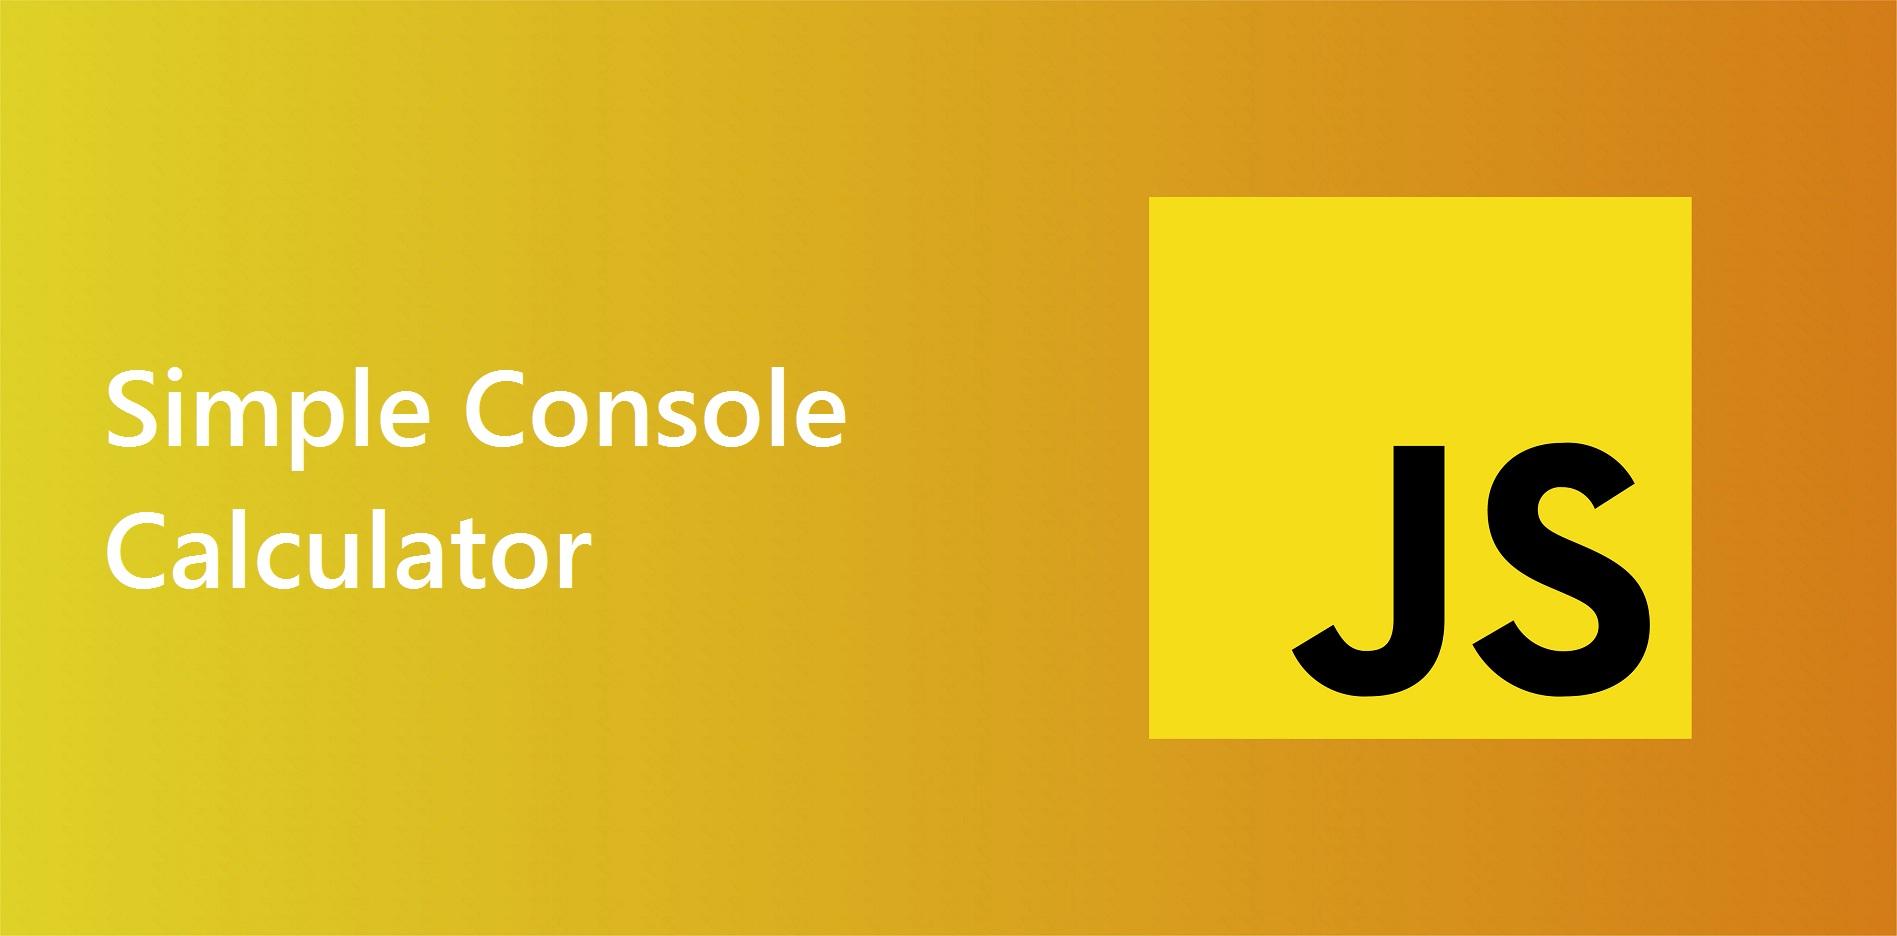
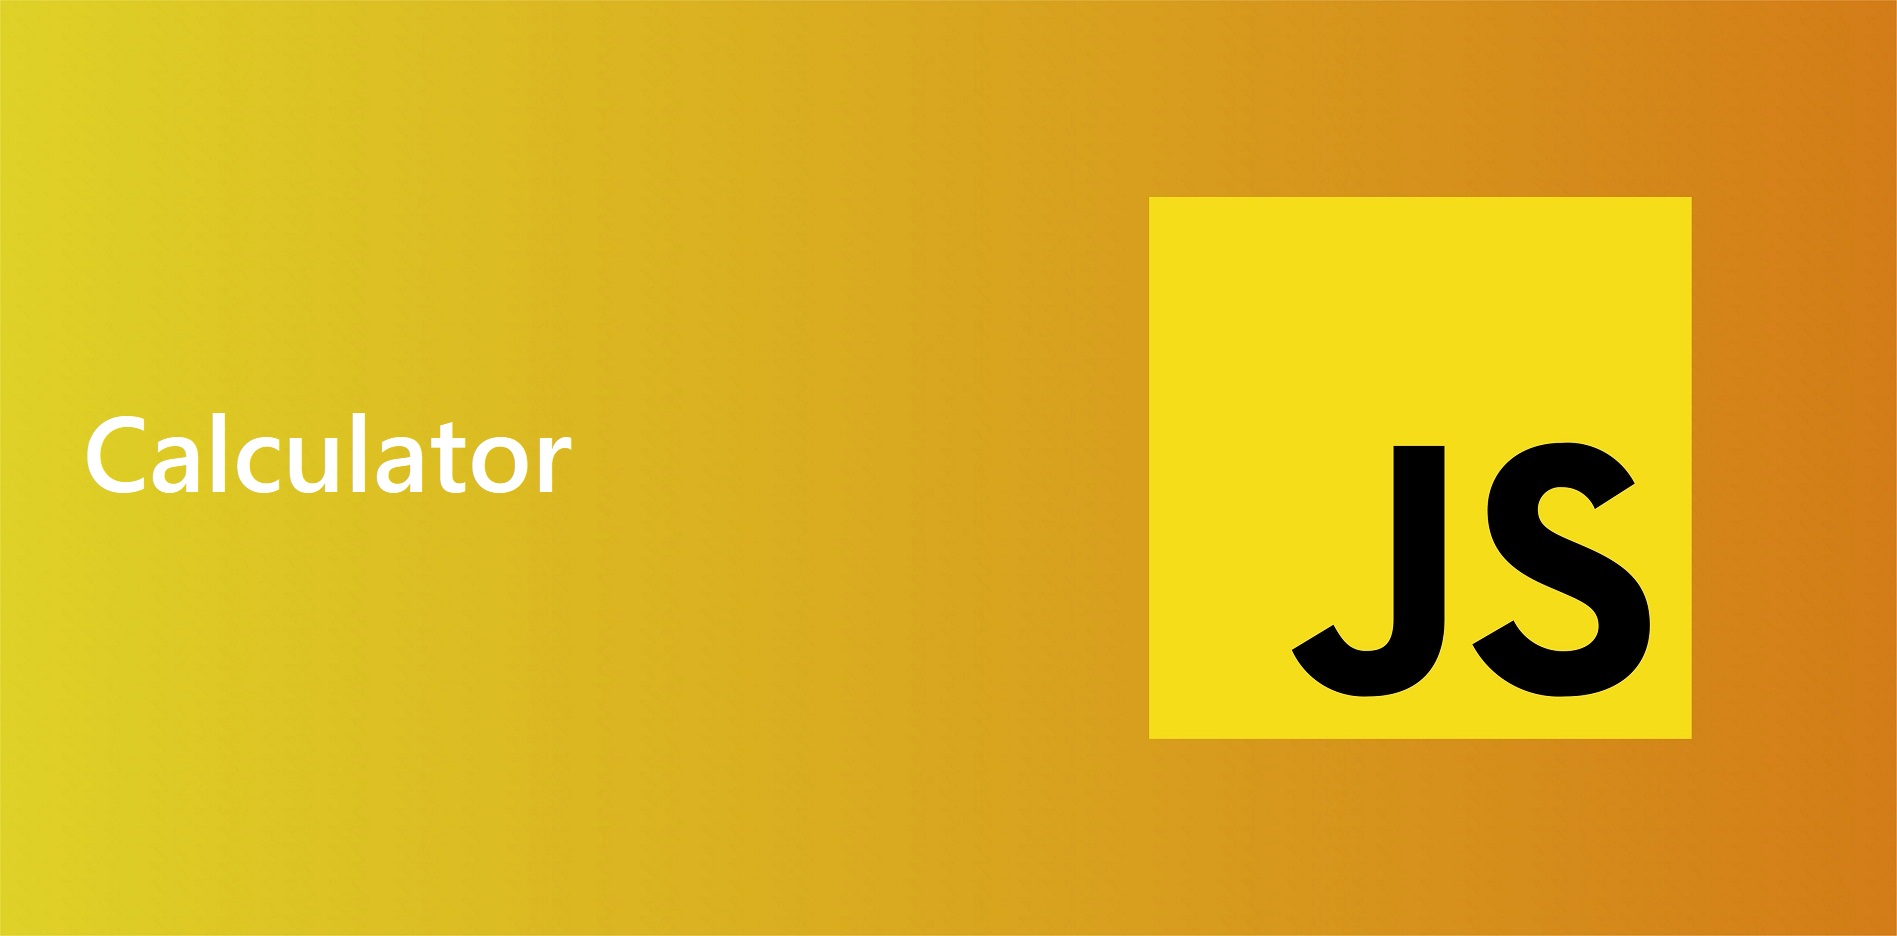
update JS portfolio and delete old project

Changed region(s): [[0.0311, 0.3718, 0.4665, 0.6506]]

diff --git a/portfolio.html b/portfolio.html
@@ -219,15 +219,10 @@
                         <img class="contImg" src="./portimg/js/JS02.jpg" alt="">
                     </a>
                 </div>
-                <div class="contP">
-                    <a target="_blank" href="https://github.com/goldipl/JS-Calculator">
-                        <img class="contImg" src="./portimg/js/JS05.jpg" alt="">
-                    </a>
-                </div>
             </div>
             <div class="rowP">
                 <div class="contP">
-                    <a target="_blank" href="https://github.com/goldipl/Very-simple-console-calculator">
+                    <a target="_blank" href="https://github.com/goldipl/JS-Calculator">
                         <img class="contImg" src="./portimg/js/JS01.jpg" alt="">
                     </a>
                 </div>
